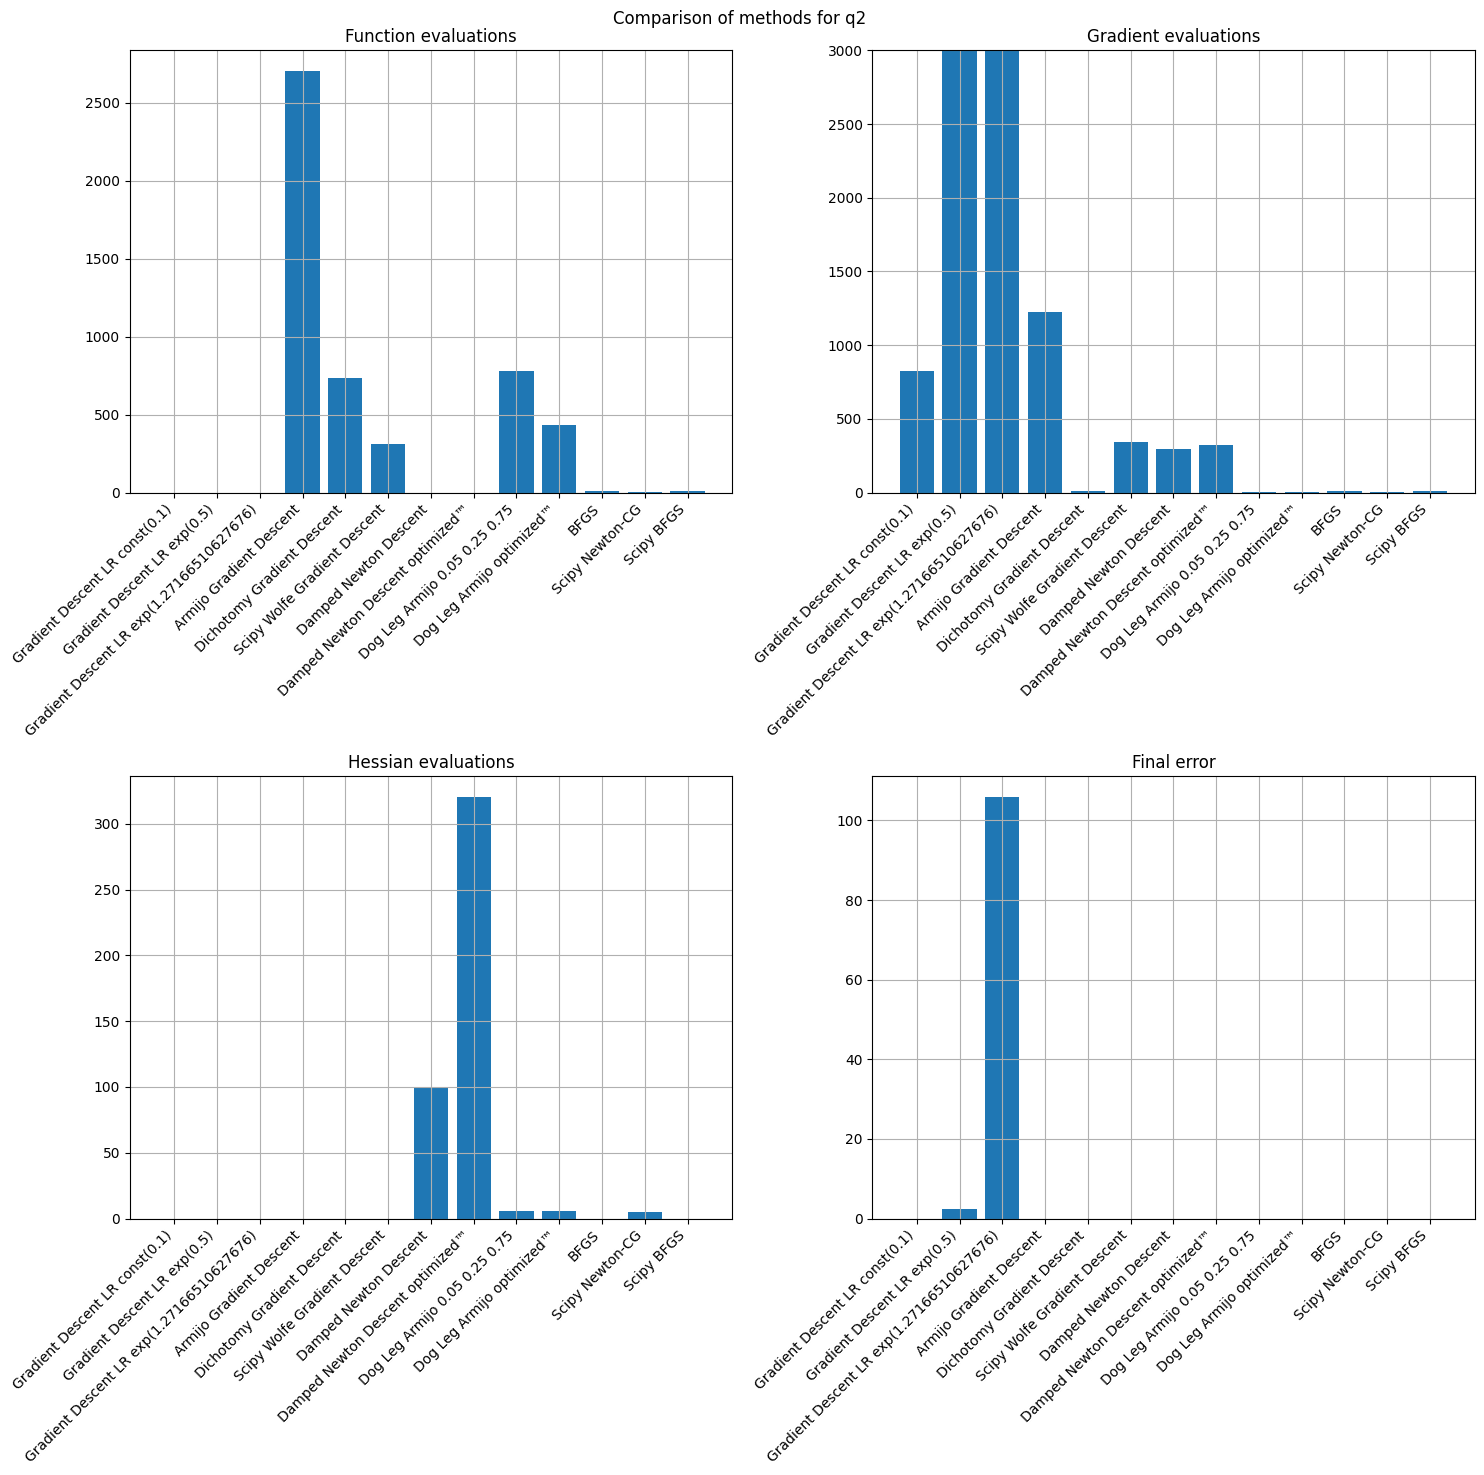
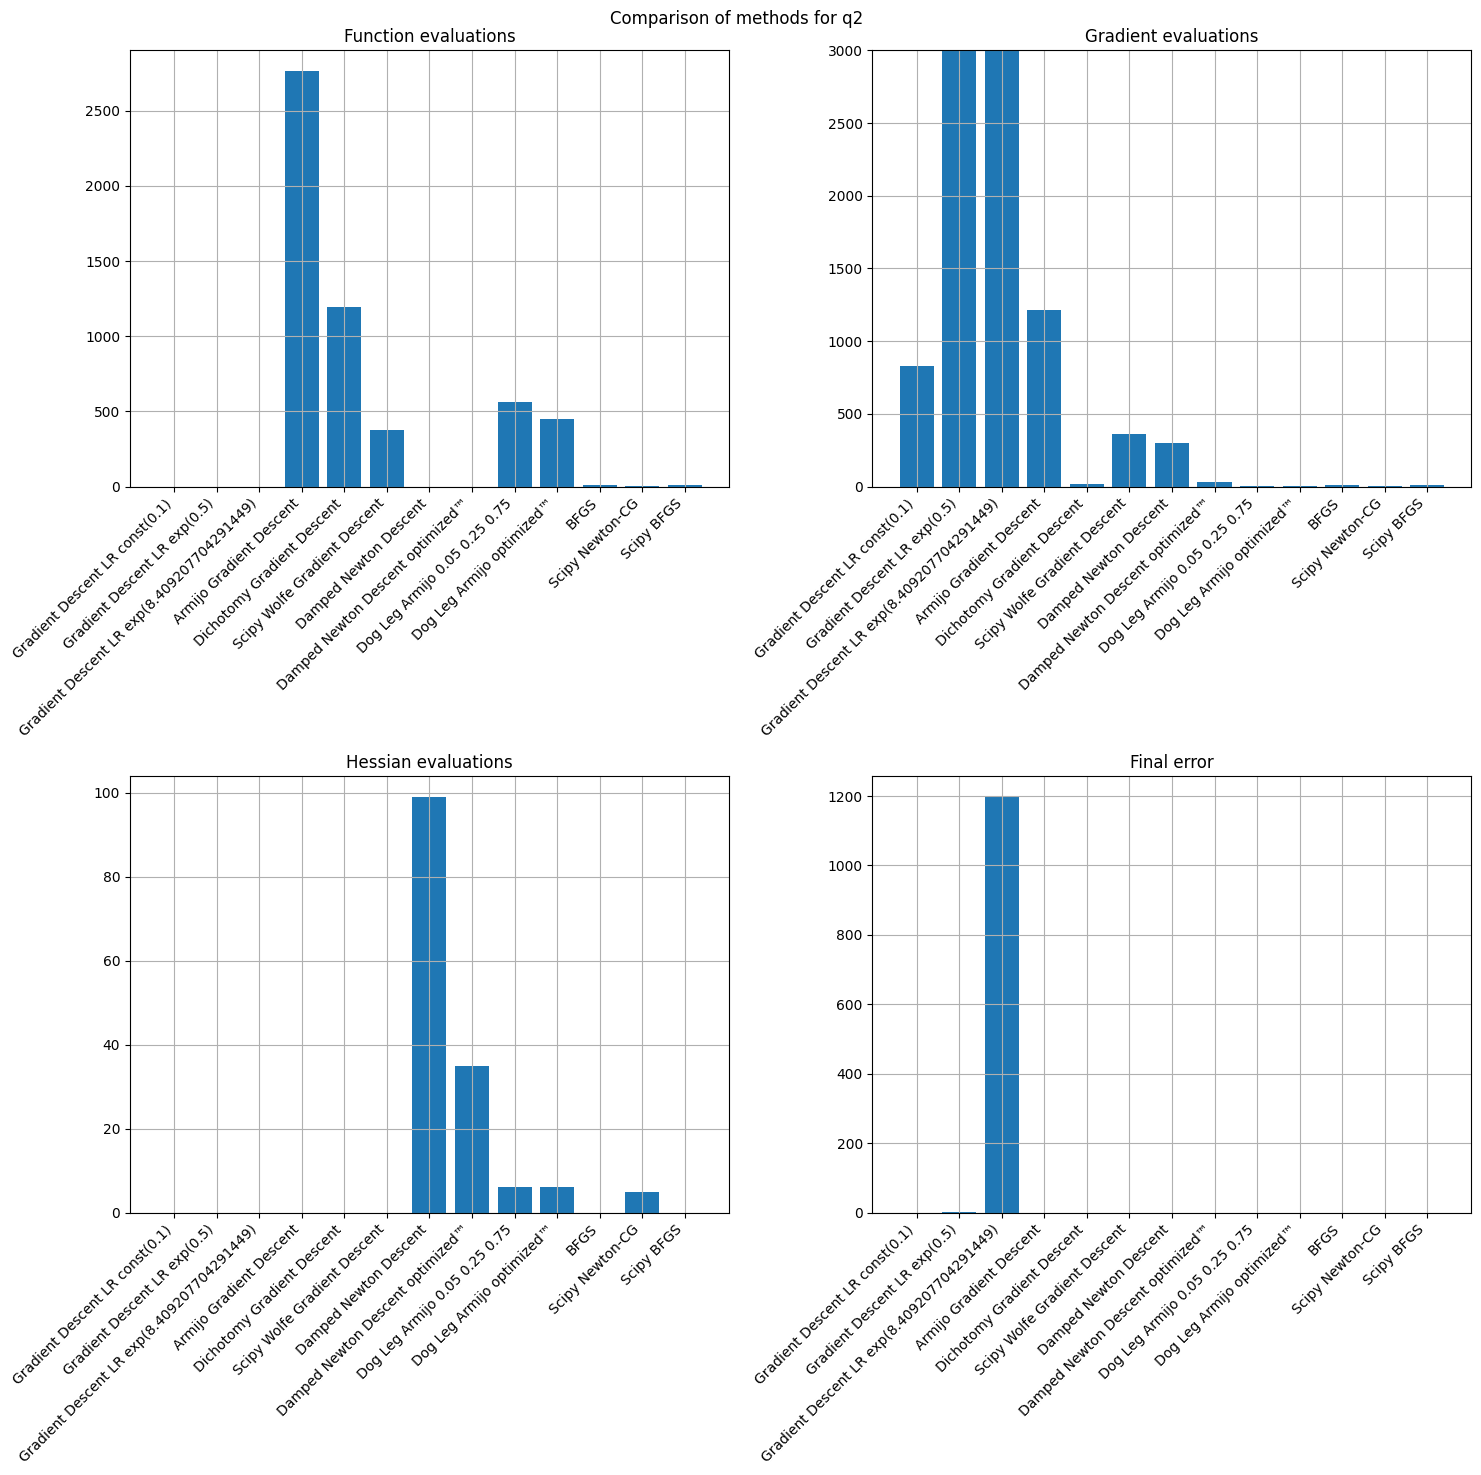
mod graphs

diff --git a/mktable.py b/mktable.py
@@ -1,7 +1,7 @@
 from lib.algorithms import *
 from lib.funcs import q2, f4, fsinsin, frosenbrock
 from lib.stats import BiFuncStatsDecorator, print_stats
-from lib.plotting import plot_methods_comparison, ensure_plot_dir
+from lib.plotting import plot_methods_comparison, plot_iterations_comparison, ensure_plot_dir
 import os
 import numpy as np
 
@@ -18,15 +18,15 @@ def main():
     dichotomy_eps = 1e-9
     bfgs_eps = 1e-2
 
-    dog_leg_optimized = {'very_low': 0.006589013504624153, 'low': 0.49597617703076274, 'high': 0.669573144357006}
+    dog_leg_optimized = {'very_low': 0.2044510175379078, 'low': 0.6001909282923029, 'high': 0.6783683164271473}
 
     algorithms = [
         ("Gradient Descent LR const(0.1)",
             lambda x_0, func: learning_rate_scheduling(x_0, func, lr_constant(0.1), relative_f_condition(func, x_0))),
         ("Gradient Descent LR exp(0.5)",
             lambda x_0, func: learning_rate_scheduling(x_0, func, lr_exponential_decay(0.5), relative_f_condition(func, x_0))),
-        ("Gradient Descent LR exp(1.27166510627676)",
-            lambda x_0, func: learning_rate_scheduling(x_0, func, lr_exponential_decay(1.27166510627676), relative_f_condition(func, x_0))),
+        ("Gradient Descent LR exp(8.409207704291449)",
+            lambda x_0, func: learning_rate_scheduling(x_0, func, lr_exponential_decay(8.409207704291449), relative_f_condition(func, x_0))),
         ("Armijo Gradient Descent",
             lambda x_0, func: steepest_gradient_descent_armijo(x_0, func, stop_condition)),
         ("Dichotomy Gradient Descent",
@@ -36,7 +36,7 @@ def main():
         ("Damped Newton Descent",
             lambda x_0, func: damped_newton_descent(x_0, func, relative_f_condition(func, x_0), lr_constant(0.1))),
         ("Damped Newton Descent optimized™",
-            lambda x_0, func: damped_newton_descent(x_0, func, stop_condition, lr_constant(0.8725560318527655))),
+            lambda x_0, func: damped_newton_descent(x_0, func, stop_condition, lr_constant(0.9988419725118234))),
         ("Dog Leg Armijo 0.05 0.25 0.75",
             lambda x_0, func: newton_descent_with_1d_search(x_0, func, stop_condition, armijo_step_selector)),
         ("Dog Leg Armijo optimized™",
@@ -64,8 +64,13 @@ def main():
                 print_stats(
                     func, trajectory, f'{func_name} | {algorithm_name} | x0={x_0}', plot=False, comparison_results=comparison_results, func_name=func_name, algorithm_name=algorithm_name)
         
+        # Plot main comparison
         comparison_path = os.path.join(plot_dir, f"{func_name}_comparison.png")
         plot_methods_comparison(func_name, comparison_results[func_name], comparison_path)
+        
+        # Plot iterations separately
+        iterations_path = os.path.join(plot_dir, f"{func_name}_iterations.png")
+        plot_iterations_comparison(func_name, comparison_results[func_name], iterations_path)
 
 
 if __name__ == "__main__":

diff --git a/lib/plotting.py b/lib/plotting.py
@@ -1,45 +1,38 @@
-import numpy as np
 import matplotlib.pyplot as plt
 from pathlib import Path
-import os
 
 def plot_methods_comparison(func_name, results, save_path):
     """Plot comparison of different methods for a given function."""
     plt.figure(figsize=(15, 15))
     
-    # Prepare data
     methods = list(results.keys())
     func_evals = [results[m]['func_evals'] for m in methods]
     grad_evals = [results[m]['grad_evals'] for m in methods]
     hess_evals = [results[m]['hess_evals'] for m in methods]
     errors = [results[m]['error'] for m in methods]
     
-    # Plot function evaluations
     plt.subplot(2, 2, 1)
     plt.bar(methods, func_evals)
     plt.title('Function evaluations')
     plt.xticks(rotation=45, ha='right')
     plt.grid(True)
     if max(func_evals) > 20000:
-        plt.ylim(0, 20000)  # Set y-axis limit only if values exceed threshold
+        plt.ylim(0, 20000)
     
-    # Plot gradient evaluations
     plt.subplot(2, 2, 2)
     plt.bar(methods, grad_evals)
     plt.title('Gradient evaluations')
     plt.xticks(rotation=45, ha='right')
     plt.grid(True)
     if max(grad_evals) > 3000:
-        plt.ylim(0, 3000)  # Set y-axis limit only if values exceed threshold
+        plt.ylim(0, 3000)
     
-    # Plot hessian evaluations
     plt.subplot(2, 2, 3)
     plt.bar(methods, hess_evals)
     plt.title('Hessian evaluations')
     plt.xticks(rotation=45, ha='right')
     plt.grid(True)
     
-    # Plot error
     plt.subplot(2, 2, 4)
     plt.bar(methods, errors)
     plt.title('Final error')
@@ -47,6 +40,24 @@ def plot_methods_comparison(func_name, results, save_path):
     plt.grid(True)
     
     plt.suptitle(f'Comparison of methods for {func_name}')
+    plt.tight_layout()
+    plt.savefig(save_path, bbox_inches='tight')
+    plt.close()
+
+def plot_iterations_comparison(func_name, results, save_path):
+    """Plot comparison of iterations for different methods."""
+    plt.figure(figsize=(15, 8))
+    
+    methods = list(results.keys())
+    iterations = [results[m]['iterations'] for m in methods]
+    
+    plt.bar(methods, iterations)
+    plt.title(f'Number of iterations for {func_name}')
+    plt.xticks(rotation=45, ha='right')
+    plt.grid(True)
+    if max(iterations) > 3000:
+        plt.ylim(0, 3000)
+
     plt.tight_layout()
     plt.savefig(save_path, bbox_inches='tight')
     plt.close()

diff --git a/lib/stats.py b/lib/stats.py
@@ -81,7 +81,8 @@ def print_stats(func: BiFuncStatsDecorator, trajectory: np.ndarray, title=None, 
         'func_evals': cc,
         'grad_evals': gc,
         'hess_evals': hc,
-        'error': error
+        'error': error,
+        'iterations': len(trajectory) - 1
     }
     
     func.reset()
